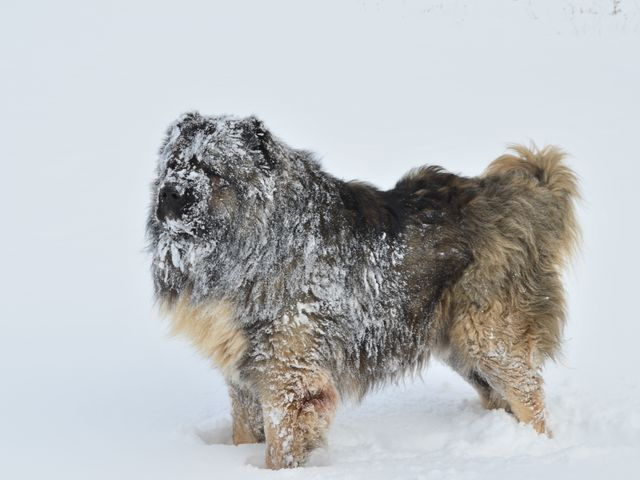
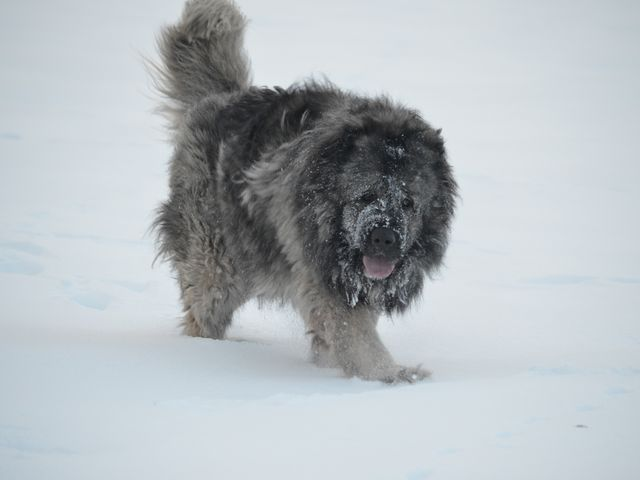
Home: snow-covered dog in the about section

diff --git a/index.html b/index.html
@@ -111,7 +111,7 @@
                     <a class="link-arrow" href="breed.html">Научете повече за породата</a>
                 </div>
                 <figure class="photo-frame reveal">
-                    <img src="images/photos/kennel-dog.jpg" alt="Светла кавказка овчарка на поляна с планина отзад" width="1400" height="927" loading="lazy">
+                    <img src="images/photos/kennel-dog.jpg" alt="Едра кавказка овчарка, покрита със сняг" width="1400" height="927" loading="lazy">
                     <figcaption>Една от нашите кавказки овчарки</figcaption>
                 </figure>
             </div>
@@ -178,7 +178,7 @@
                     <li><a href="images/winter/winter-02.jpg"><img src="images/winter/winter-02-thumb.jpg" alt="Сива кавказка овчарка гази в дълбокия сняг" width="640" height="480" loading="lazy"></a></li>
                     <li><a href="images/winter/winter-04.jpg"><img src="images/winter/winter-04-thumb.jpg" alt="Тъмна кавказка овчарка на заснежена поляна" width="640" height="480" loading="lazy"></a></li>
                     <li><a href="images/winter/winter-05.jpg"><img src="images/winter/winter-05-thumb.jpg" alt="Кавказка овчарка тича към фотоапарата през снега" width="640" height="480" loading="lazy"></a></li>
-                    <li><a href="images/winter/winter-06.jpg"><img src="images/winter/winter-06-thumb.jpg" alt="Заскрежена кавказка овчарка в снега" width="640" height="480" loading="lazy"></a></li>
+                    <li><a href="images/winter/winter-06.jpg"><img src="images/winter/winter-06-thumb.jpg" alt="Кавказка овчарка със заснежена муцуна върви през снега" width="640" height="480" loading="lazy"></a></li>
                     <li><a href="images/winter/winter-03.jpg"><img src="images/winter/winter-03-thumb.jpg" alt="Три кавказки овчарки в снега с планината отзад" width="1280" height="560" loading="lazy"></a></li>
                 </ul>
             </div>

diff --git a/en/index.html b/en/index.html
@@ -111,7 +111,7 @@
                     <a class="link-arrow" href="breed.html">Learn more about the breed</a>
                 </div>
                 <figure class="photo-frame reveal">
-                    <img src="../images/photos/kennel-dog.jpg" alt="Light Caucasian Shepherd in a meadow with mountains behind" width="1400" height="927" loading="lazy">
+                    <img src="../images/photos/kennel-dog.jpg" alt="Big Caucasian Shepherd covered in snow" width="1400" height="927" loading="lazy">
                     <figcaption>One of our Caucasian Shepherds</figcaption>
                 </figure>
             </div>
@@ -178,7 +178,7 @@
                     <li><a href="../images/winter/winter-02.jpg"><img src="../images/winter/winter-02-thumb.jpg" alt="Grey Caucasian Shepherd wading through deep snow" width="640" height="480" loading="lazy"></a></li>
                     <li><a href="../images/winter/winter-04.jpg"><img src="../images/winter/winter-04-thumb.jpg" alt="Dark Caucasian Shepherd in a snowy meadow" width="640" height="480" loading="lazy"></a></li>
                     <li><a href="../images/winter/winter-05.jpg"><img src="../images/winter/winter-05-thumb.jpg" alt="Caucasian Shepherd running through the snow towards the camera" width="640" height="480" loading="lazy"></a></li>
-                    <li><a href="../images/winter/winter-06.jpg"><img src="../images/winter/winter-06-thumb.jpg" alt="Frost-covered Caucasian Shepherd in the snow" width="640" height="480" loading="lazy"></a></li>
+                    <li><a href="../images/winter/winter-06.jpg"><img src="../images/winter/winter-06-thumb.jpg" alt="Caucasian Shepherd with a snowy muzzle walking through the snow" width="640" height="480" loading="lazy"></a></li>
                     <li><a href="../images/winter/winter-03.jpg"><img src="../images/winter/winter-03-thumb.jpg" alt="Three Caucasian Shepherds in the snow with the mountains behind" width="1280" height="560" loading="lazy"></a></li>
                 </ul>
             </div>
